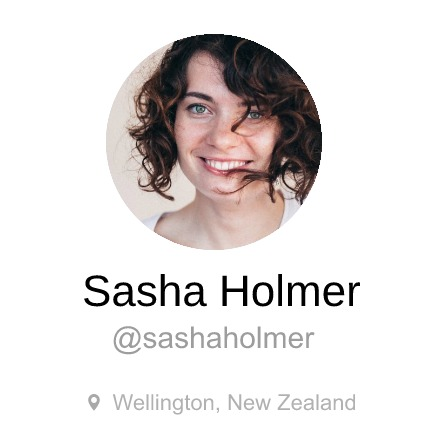
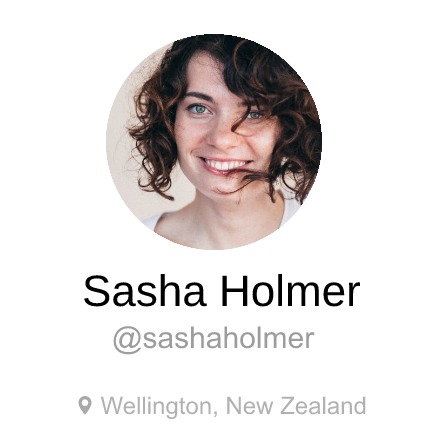
reduce header height, update new project header title, update new message profile info location size

Changed region(s): [[0.1797, 0.8844, 0.8387, 0.9433]]

diff --git a/src/routes/_components/HeaderBar.svelte b/src/routes/_components/HeaderBar.svelte
@@ -36,7 +36,7 @@
 
     let sectionLabel = '';
     $: {
-        if (/\/projects\/.*/.test(path) && $project) {
+        if (/\/projects\/.*/.test(path) && !/\/projects\/new/.test(path) && $project) {
             sectionLabel = $project.title;
         } else if (/\/profile\/.*/.test(path) && $viewedUser && !$viewedUser.isCurrentUser) {
             sectionLabel = $viewedUser.fullName;
@@ -68,7 +68,7 @@
     }
 </script>
 
-<headerBar>
+<div class="headerBar">
     {#if segment === undefined}
         <div class="logo">
             <img src='assets/logo.png' alt="Flock">
@@ -82,39 +82,19 @@
     <div class="avatarIcon" class:button="{!isMyProfile}" on:click="{loadMyProfile}">
         <AvatarIcon />
     </div>
-</headerBar>
+</div>
 
 <style>
-    .avatarIcon {
-        position: absolute;
-        right: 11px;
-        top: 11px;
-    }
-
-    .button {
-        cursor: pointer;
-    }
-
-    headerBar {
+    .headerBar {
         position: absolute;
         top: 0;
         left: 0;
 
         width: 100%;
-        height: 60px;
+        height: 50px;
 
         background: #ffffff;
         box-shadow: 0 2px 3px 0 rgba(0,0,0,0.12);
-    }
-
-    .logo {
-        position: absolute;
-        top: 12px;
-        left: 15px;
-    }
-
-    .logo img {
-        width: 50%;
     }
 
     .header {
@@ -122,14 +102,33 @@
         font-weight: 400;
 
         position: absolute;
-        top: 14px;
+        top: 8px;
         left: 20px;
+    }
+
+    .logo {
+        position: absolute;
+        top: 9px;
+        left: 15px;
+    }
+    .logo img {
+        width: 44%;
+    }
+
+    .avatarIcon {
+        position: absolute;
+        right: 11px;
+        top: 7px;
+    }
+
+    .button {
+        cursor: pointer;
     }
 
     .backButton {
         position: absolute;
-        top: 8px;
-        left: 5px;
+        top: 1px;
+        left: 0px;
         padding: 10px;
 
         width: 26px;
@@ -138,7 +137,7 @@
         cursor: pointer;
     }
 
-    .hasBack {
-        padding-left: 30px;
+    .header.hasBack {
+        padding-left: 26px;
     }
 </style>

diff --git a/src/routes/_layout.svelte b/src/routes/_layout.svelte
@@ -99,7 +99,7 @@
 
 	.pageContent {
 		position: absolute;
-		top: 60px; /* header height */
+		top: 50px; /* header height */
 		bottom: 76px; /* nav height */
 		width: 100%;
 	}

diff --git a/src/routes/index.svelte b/src/routes/index.svelte
@@ -27,7 +27,7 @@
 	.feed {
 		width: 100%;
 
-		padding-top: 10px;
+		padding-top: 5px;
 
     	line-height: 0;
 	}
